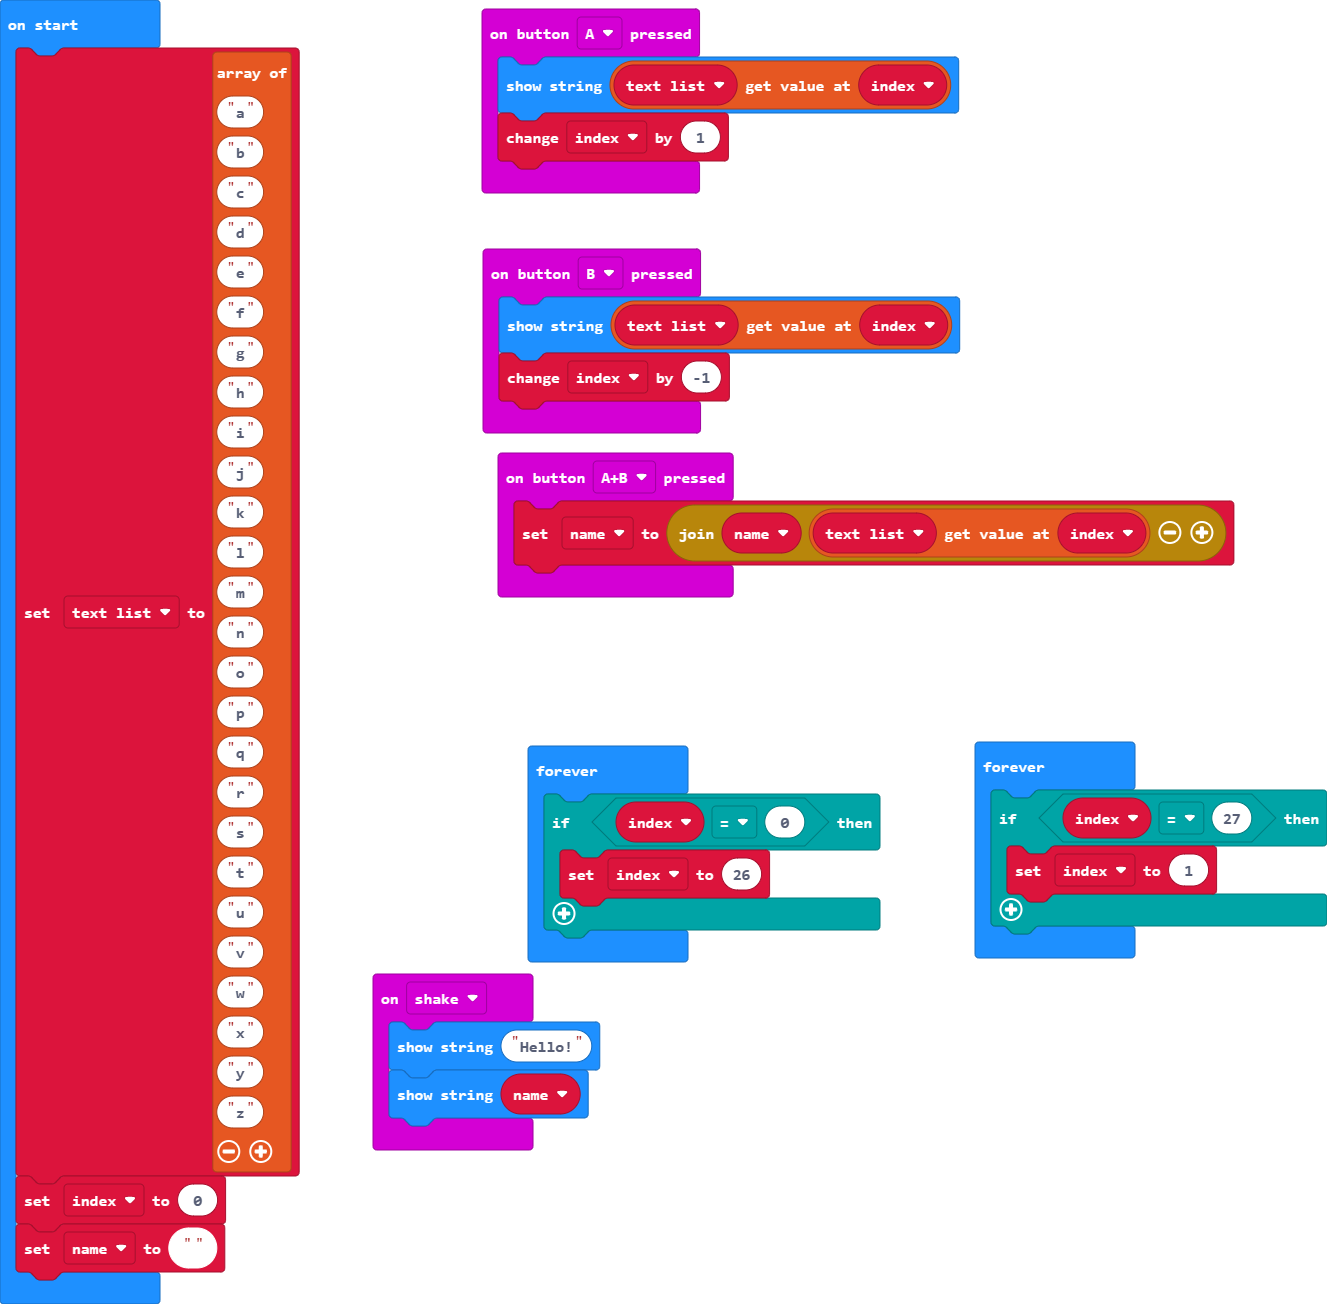
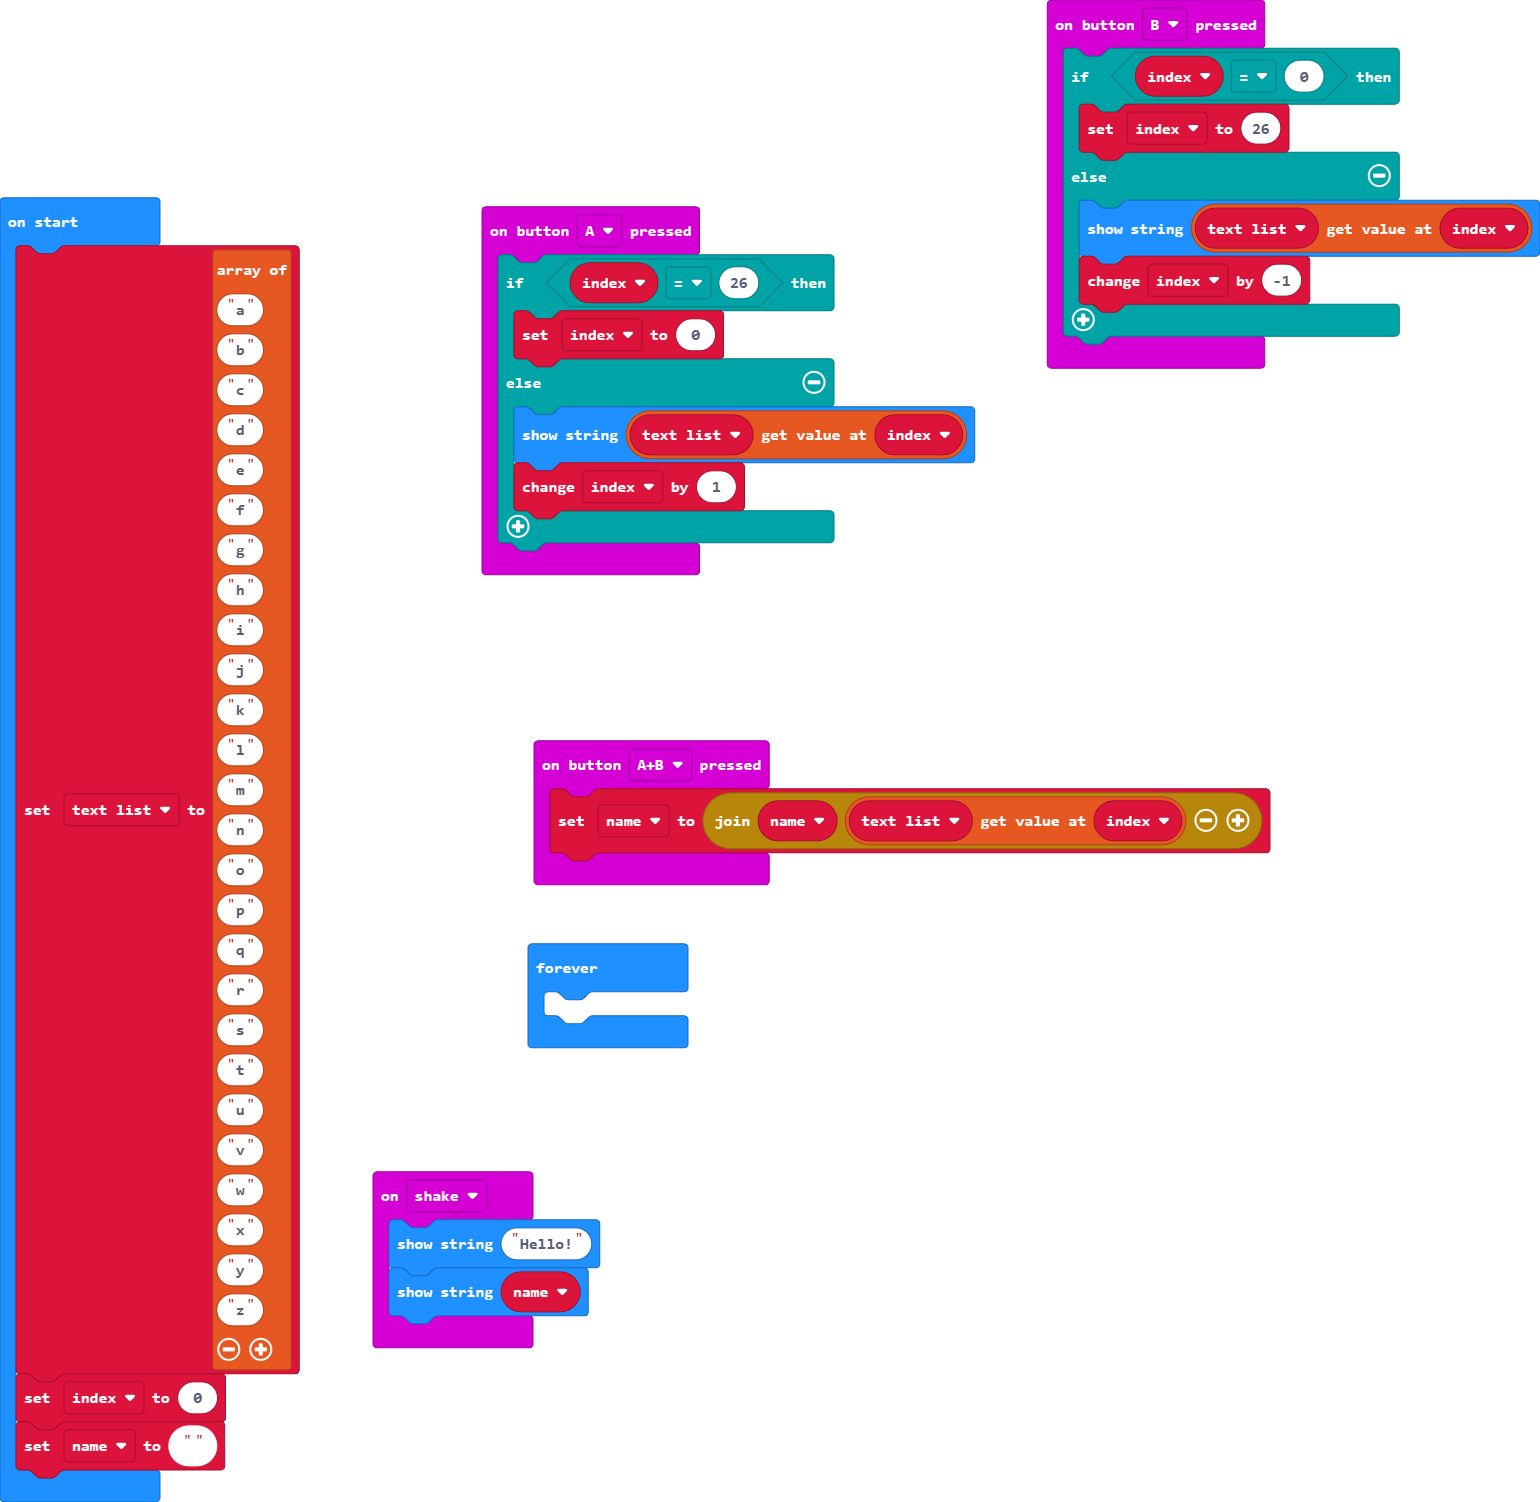
changed back to 0-based

diff --git a/main.ts b/main.ts
@@ -1,13 +1,21 @@
 input.onButtonPressed(Button.A, function () {
-    basic.showString("" + (text_list[index]))
-    index += 1
+    if (index == 26) {
+        index = 0
+    } else {
+        basic.showString("" + (text_list[index]))
+        index += 1
+    }
 })
 input.onButtonPressed(Button.AB, function () {
     name = "" + name + text_list[index]
 })
 input.onButtonPressed(Button.B, function () {
-    basic.showString("" + (text_list[index]))
-    index += -1
+    if (index == 0) {
+        index = 26
+    } else {
+        basic.showString("" + (text_list[index]))
+        index += -1
+    }
 })
 input.onGesture(Gesture.Shake, function () {
     basic.showString("Hello!")
@@ -47,12 +55,5 @@ text_list = [
 index = 0
 name = ""
 basic.forever(function () {
-    if (index == 0) {
-        index = 26
-    }
-})
-basic.forever(function () {
-    if (index == 27) {
-        index = 1
-    }
+	
 })
